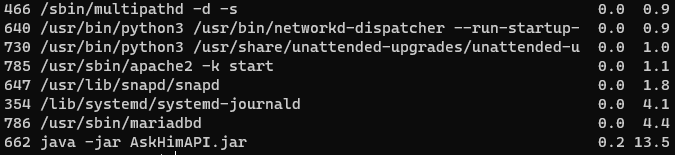
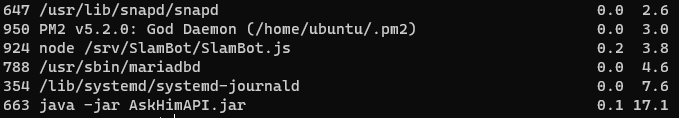
Update process example

diff --git a/docs/devops/manageprocess.md b/docs/devops/manageprocess.md
@@ -35,6 +35,6 @@ Pour arrêter le processus, il suffit d'exécuter la commande suivante :
 sudo kill -9 <ID_du_processus>
 
 # Exemple
-sudo kill -9 662
+sudo kill -9 663
 ```
 Et voilà ! 😎
